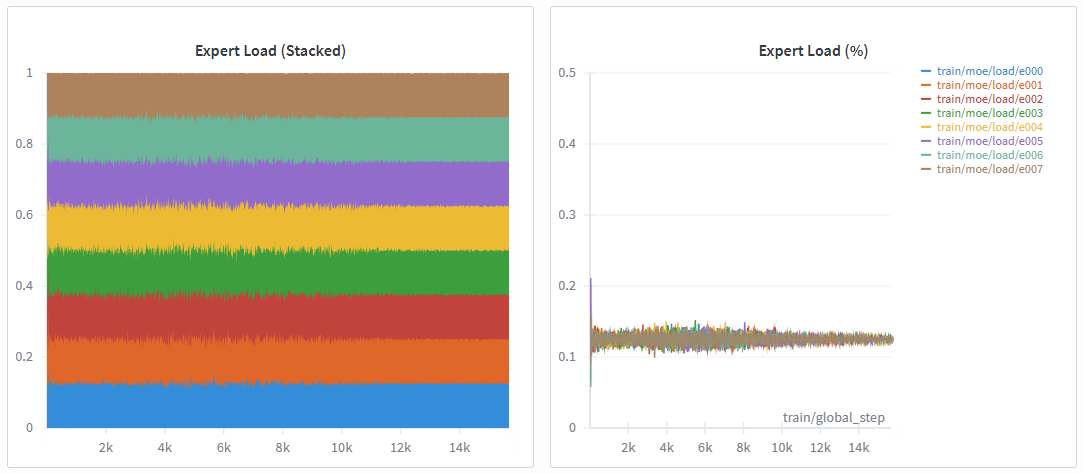
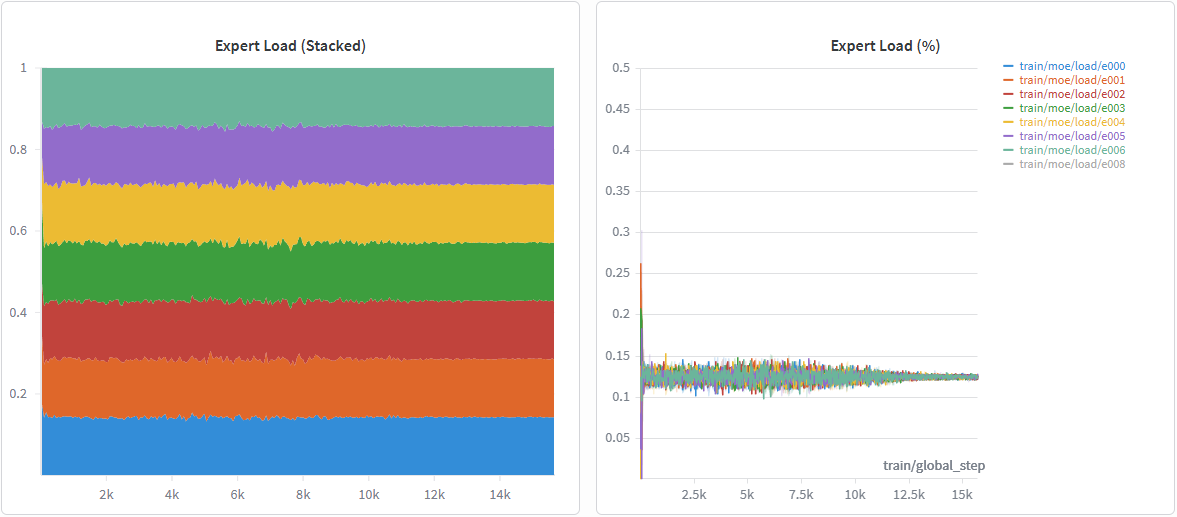
Revise writeup w.r.t. 0716 runs (improved GroupedGLU implementations, 3 calls of F.grouped_mm)

diff --git a/assets/debug_equivalence_grouped_glu_vs_mlp.py b/assets/debug_equivalence_grouped_glu_vs_mlp.py
@@ -1,0 +1,162 @@
+from moelab.moedl.grouped_glu import GroupedGLU
+from moelab.moedl.modeling_moedl import MoedlMLP
+
+from dataclasses import dataclass
+import torch
+
+@dataclass
+class Cfg_GroupedGLU:
+    n_group: int = 1
+    d: int = 768
+    dff: int = 2048
+
+@dataclass
+class Cfg_MoedlMLP:
+    hidden_size: int = 768
+    intermediate_size: int = 2048
+    mlp_bias: bool = False
+    hidden_act: str = "silu"
+
+# Note that the following is generated by sonnet 4.6.
+
+PASS = "\033[32mPASS\033[0m"
+WARN = "\033[33mWARN\033[0m"
+FAIL = "\033[31mFAIL\033[0m"
+
+def _sync_weights(gg: GroupedGLU, mlp: MoedlMLP):
+    """Copy GroupedGLU (n_group=1) weights into a MoedlMLP so they are identical."""
+    with torch.no_grad():
+        mlp.gate.weight.copy_(gg.weight_gate.squeeze(0))
+        mlp.up.weight.copy_(gg.weight_up.squeeze(0))
+        mlp.down.weight.copy_(gg.weight_down.squeeze(0))
+
+
+def _check(label: str, a: torch.Tensor, b: torch.Tensor, atol: float, rtol: float):
+    ok = torch.allclose(a.float(), b.float(), atol=atol, rtol=rtol)
+    max_err = (a.float() - b.float()).abs().max().item()
+    if not ok:
+        status = FAIL
+    elif max_err > 0:
+        status = WARN
+    else:
+        status = PASS
+    print(f"  {status}  {label:<30s}  max_err={max_err:.3e}")
+    return ok
+
+
+def run_comparison(dtype_label: str, model_dtype: torch.dtype, use_autocast: bool):
+    print(f"\n{'='*60}")
+    print(f"  dtype={dtype_label}  autocast={use_autocast}")
+    print(f"{'='*60}")
+
+    device = "cuda"
+    atol = 1e-4 if model_dtype == torch.float32 else 5e-2
+
+    cfg_gg  = Cfg_GroupedGLU()
+    cfg_mlp = Cfg_MoedlMLP()
+
+    # Build both models in fp32, sync weights, then cast.
+    gg  = GroupedGLU(cfg_gg.n_group, cfg_gg.d, cfg_gg.dff, device=device)
+    mlp = MoedlMLP(cfg_mlp).to(device)
+    _sync_weights(gg, mlp)
+
+    gg  = gg.to(model_dtype)
+    mlp = mlp.to(model_dtype)
+
+    n_tokens = 31  # arbitrary
+    x_base = torch.randn(n_tokens, cfg_gg.d, device=device, dtype=model_dtype)
+    offs   = torch.tensor([n_tokens], dtype=torch.int32, device=device)
+
+    x_gg  = x_base.clone().requires_grad_(True)
+    x_mlp = x_base.clone().requires_grad_(True)
+
+    ctx = torch.autocast(device_type="cuda", dtype=model_dtype) if use_autocast else torch.no_grad().__class__()  # dummy ctx
+
+    # ---- forward ----
+    if use_autocast:
+        with torch.autocast(device_type="cuda", dtype=model_dtype):
+            out_gg  = gg(x_gg, offs)
+            out_mlp = mlp(x_mlp)
+    else:
+        out_gg  = gg(x_gg, offs)
+        out_mlp = mlp(x_mlp)
+
+    all_pass = True
+    all_pass &= _check("forward output", out_gg, out_mlp, atol=atol, rtol=atol)
+
+    # ---- backward ----
+    out_gg.sum().backward()
+    out_mlp.sum().backward()
+
+    all_pass &= _check("grad  x (input)",        x_gg.grad,             x_mlp.grad,             atol=atol, rtol=atol)
+    all_pass &= _check("grad  weight_gate / gate", gg.weight_gate.grad.squeeze(0), mlp.gate.weight.grad, atol=atol, rtol=atol)
+    all_pass &= _check("grad  weight_up   / up",   gg.weight_up.grad.squeeze(0),   mlp.up.weight.grad,   atol=atol, rtol=atol)
+    all_pass &= _check("grad  weight_down / down",  gg.weight_down.grad.squeeze(0), mlp.down.weight.grad, atol=atol, rtol=atol)
+
+    return all_pass
+
+
+def run_comparison_compiled(dtype_label: str, model_dtype: torch.dtype, backend: str = None):
+    """Same as run_comparison but both models are wrapped with torch.compile."""
+    backend_label = backend if backend is not None else "inductor"
+    print(f"\n{'='*60}")
+    print(f"  dtype={dtype_label}  torch.compile({backend_label})  autocast=True")
+    print(f"{'='*60}")
+
+    device = "cuda"
+    atol = 5e-2
+
+    cfg_gg  = Cfg_GroupedGLU()
+    cfg_mlp = Cfg_MoedlMLP()
+
+    # Build both models in fp32, sync weights, then cast.
+    gg  = GroupedGLU(cfg_gg.n_group, cfg_gg.d, cfg_gg.dff, device=device)
+    mlp = MoedlMLP(cfg_mlp).to(device)
+    _sync_weights(gg, mlp)
+
+    gg  = gg.to(model_dtype)
+    mlp = mlp.to(model_dtype)
+
+    compile_kwargs = {"backend": backend} if backend is not None else {}
+    gg_c  = torch.compile(gg,  **compile_kwargs)
+    mlp_c = torch.compile(mlp, **compile_kwargs)
+
+    n_tokens = 31
+    x_base = torch.randn(n_tokens, cfg_gg.d, device=device, dtype=model_dtype)
+    offs   = torch.tensor([n_tokens], dtype=torch.int32, device=device)
+
+    x_gg  = x_base.clone().requires_grad_(True)
+    x_mlp = x_base.clone().requires_grad_(True)
+
+    # ---- forward ----
+    with torch.autocast(device_type="cuda", dtype=model_dtype):
+        out_gg  = gg_c(x_gg, offs)
+        out_mlp = mlp_c(x_mlp)
+
+    all_pass = True
+    all_pass &= _check("forward output", out_gg, out_mlp, atol=atol, rtol=atol)
+
+    # ---- backward ----
+    out_gg.sum().backward()
+    out_mlp.sum().backward()
+
+    all_pass &= _check("grad  x (input)",          x_gg.grad,                      x_mlp.grad,           atol=atol, rtol=atol)
+    all_pass &= _check("grad  weight_gate / gate",  gg.weight_gate.grad.squeeze(0), mlp.gate.weight.grad, atol=atol, rtol=atol)
+    all_pass &= _check("grad  weight_up   / up",    gg.weight_up.grad.squeeze(0),   mlp.up.weight.grad,   atol=atol, rtol=atol)
+    all_pass &= _check("grad  weight_down / down",  gg.weight_down.grad.squeeze(0), mlp.down.weight.grad, atol=atol, rtol=atol)
+
+    return all_pass
+
+
+if __name__ == "__main__":
+    if not torch.cuda.is_available():
+        raise RuntimeError("CUDA is required for this comparison.")
+
+    results = {}
+    results["fp32"]                  = run_comparison("fp32",  torch.float32,  use_autocast=False)
+    results["bf16"]                  = run_comparison("bf16",  torch.bfloat16, use_autocast=True)
+    results["bf16_compile"]          = run_comparison_compiled("bf16", torch.bfloat16)
+    results["bf16_compile_aot_eager"] = run_comparison_compiled("bf16", torch.bfloat16, backend="aot_eager")
+
+
+

diff --git a/readme.md b/readme.md
@@ -50,7 +50,7 @@ While some features are still work in progress and certain ablations require lar
     * **More customization**: use [`moelab_main.py`][main] like we use standard HF script. Do `python moelab_main.py --help` to see options.
     * **Find LR**: Appending `--sweep_lr <list of comma-limited lr>` to `moelab_main.py` will turn it into learning rate sweep for small number of steps, which can be configured with `--sweep_lr_steps <num_steps>`. For experiments in the [`Makefile`][mkfile], just append sweep_lr=1 to the make command. e.g. `make c1_moedl_e8_k1 sweep_lr=1`. A report will be generated in the output folder and metrics of the sweep are also logged to wandb by default.
 
-* All runs are shared via [W&B project][wbproj] ([w/ grouped_mm][wbproj2]), with [CSV export][csv] for quick result lookup.
+* All runs are shared via [W&B project][wbproj-0716], [spreadsheet][result-xlsx] for quick result lookup.
 
 * Qualitative Eval per [TinyStories][ts-paper].
     ```bash
@@ -105,18 +105,13 @@ As of Jan 2026, most HuggingFace-based MoE implementations (including our initia
 
 Grouped GEMM addresses this by tiling the output of all experts such that these output tiles are scheduled/executed independently and in parallel (with their corresponding inputs). This enables concurrent execution across SMs instead of waiting for one expert to finish before launching the next. Historically this required [custom kernels][triton_grouped_mm]. In PyTorch 2.10 released Jan 2026, [`torch.nn.functional.grouped_mm`][torch210_grouped_mm] provides an official primitive.
 
-To enable training, we implemented an autograded `GroupedMMFunc` and `GroupedGLU` module to wrap around `grouped_mm`. See [codes][grouped_glu_py]. While the integration is straightforward, a few practical notes are worth highlighting:
+To enable training, we implemented an autograded `GroupedMMFunc` and `GroupedGLU` module to wrap around `grouped_mm`. While the integration is straightforward, the grouped weights must use the layout of `(group size, oc, ic)` so that the 3 grouped gemms in forward and backward map directly to `grouped_mm`. See [codes][grouped_glu_py].
 
-1. Partial coverage of expert GEMMs. Synonymous to linear layer, experts requires [3 grouped GEMMs][three-gemms] `Y, grad_x, grad_w`. The current `grouped_mm` API assumes a fixed contraction (inner) dimension across groups. This allows us to implement the `y` and `grad_x` GEMMs via appropriate transpose, but not `grad_y` because the contraction dim is the token dim, and token counts per expert vary dynamically. As a result, `grad_y` are still computed per expert in a loop. In essense, we accelerate 2/3 expert GEMMs.
-
-2. The execution pattern of `GroupedGLU`: Using `grouped_mm`, gate, up and down projections are grouped and dispatched in parallel across all activated experts. This replaces the vanilla expert-by-expert execution.
-
-3. Reduced precision: `grouped_mm` returns outputs in the dtype of input A. Under our BF16 training regime, per-expert outputs are BF16. This slightly affects the weighted aggregation over top-k experts due to rounding. Across all experiments, final eval loss degrades by ~0.85% on average, while ablation trends and relative comparisons remain stable.
 
 **Acceleration Results on 1xRTX Pro 6000**: Across all experiments, `GroupedGLU` yields:
-* 23% average training (incl. eval) speedup, up to 46% speedup in high-expert settings.
+* 31% average training (incl. eval) speedup, up to 60% speedup in high-expert settings.
 
-The benefit is strongly correlated to expert count. The more experts you have, the more wasteful sequential execution becomes, so grouped execution helps more.
+The benefit is strongly correlated to expert count. The more experts you have, the more wasteful sequential execution becomes, so grouped execution helps more. *Note: `torch.compile (Inductor backend)` introduces small numerical differences in the `GroupedGLU` backward, resulting in a modest eval-loss regression (~0.98% on average). Run this [script][dbg-groupedglu-mlp] to understand the rootcause.*
 
 ![](assets/grouped_vs_looped_mm.png)
 
@@ -172,17 +167,17 @@ Setup: We ablate on `Moedl` with 8 experts (E=8) and 1 active expert per token (
 
 | make [exp. id]               | Eval Loss |
 |---------------------------   |:---------:|
-| `a0_moedl_no_lb`             | 1.127     |
-| `a1_moedl_lb_penalty`        | 1.137     |
-| `a2_moedl_lb_biasing`        | 1.130     |
+| `a0_moedl_no_lb`             | 1.110     |
+| `a1_moedl_lb_penalty`        | 1.133     |
+| `a2_moedl_lb_biasing`        | 1.143     |
 
-At first glance, all three strategies converge to similar final eval loss, with the best result achieved without load balancing, followed closely by router biasing, and finally the imbalance penalty. While the final loss differences are small, the load-balancing dynamics differ. To illustrate this, we examine expert load over time. The following plots, logged in [W&B][wbproj], show expert load averaged across layers.
+At first glance, all three strategies converge to similar final eval loss, with the best result achieved without load balancing, followed closely by router biasing, and finally the imbalance penalty. While the final loss differences are small, the load-balancing dynamics differ. To illustrate this, we examine expert load over time. The following plots, logged in [W&B][wbproj-0716], show expert load averaged across layers.
 
-**Without load balancing**, expert imbalance is immediately apparent. A small subset of experts dominates the routing, as reflected by the disproportionate heights in the stacked plot and the uneven distributions in the % overlay view. Observe how `e002` and `e006` are less assigned than the rest throughout training.
+**Without load balancing**, expert imbalance is immediately apparent. A small subset of experts dominates the routing, as reflected by the disproportionate heights in the stacked plot and the uneven distributions in the % overlay view. Observe how `e001` and `e005` are less assigned than the rest throughout training.
 
 <img src="assets/a0_no_lb_expert_load.png" width="600" style="height:auto;">
 
-**Imbalance penalty** improves load distribution gradually over training. All series fluctuate around balance point 1/E=0.125 throughout. Between steps 2k and 10k, the % plot exhibit noticeably higher variance, indicating noisy and unstable routing before the auxiliary loss sufficiently regularizes expert utilization.
+**Imbalance penalty** improves load distribution gradually over training. All series fluctuate around balance point 1/E=0.125 throughout. 10k step and prior, the % plot exhibit noticeably higher variance, indicating noisy and unstable routing before the auxiliary loss sufficiently regularizes expert utilization.
 
 <img src="assets/a1_lb_penalty_expert_load.png" width="600" style="height:auto;">
 
@@ -235,10 +230,10 @@ The effectiveness of higher resolution can be reasoned about combinatorially. Fo
 
 | make [exp. id]        |Expert Dff | Resolution (E:K) | Combinations ($_EC_k$) | Eval Loss |
 |-----------------------|:---------:|:----------------:| ----------------------:|:---------:|
-| `c1_moedl_e8_k1`      | 2048      | 8:1              | 8                      | 1.1296    |
-| `c2_moedl_e16_k2`     | 1024      | 16:2             | 120                    | 1.0658    |
-| `c3_moedl_e32_k4`     | 512       | 32:4             | 35,960                 | **1.0581**|
-| `c4_moedl_e64_k8`     | 256       | 64:8             | 4,426,165,368          | 1.0584    |
+| `c1_moedl_e8_k1`      | 2048      | 8:1              | 8                      | 1.1411    |
+| `c2_moedl_e16_k2`     | 1024      | 16:2             | 120                    | 1.0793    |
+| `c3_moedl_e32_k4`     | 512       | 32:4             | 35,960                 | 1.0744    |
+| `c4_moedl_e64_k8`     | 256       | 64:8             | 4,426,165,368          | **1.0709**|
 
 We ablate MoE models at a fixed sparsity ratio of 12.5% while increasing resolution: E:K = 8:1, 16:2, 32:4, and 64:8. Total model parameters are kept approximately constant at 400M by adjusting the expert hidden size. Activated param count stays constant as well. 
 
@@ -251,18 +246,18 @@ In addition to finer-grained experts, [DeepSeekMoE][ds-moe] also advocates the u
 
 While this intuition is appealing, [OLMoE (4.1.3)][olmoe] highlights a potential confound to the combinatorial argument. Shared experts are essentially fixed routing paths and contribute no additional combinations. At iso-active-expert settings, introducing shared experts effectively reduces the number of unique combinations, which may be counter-productive for model expressivity (see Table below).
 
-Empirical results in the literature are mixed. The proposer [DeepSeekMoE (Fig.3,6)][ds-moe] reports benefits from shared experts whereas [OLMoE (4.1.3)][olmoe] observes limited or negative impact. [NVIDIA's ablations][nv-upcycle] show similar convergence behavior with and without shared experts, though in the specific context of upcycling a Nemotron-4 dense model into an MoE. Notably, most prior studies explore shared experts in a binary on/off setting.
+Empirical results in the literature are mixed. The proposer [DeepSeekMoE (Fig.3,6)][ds-moe] reports benefits from shared experts whereas [OLMoE (4.1.3)][olmoe] observes limited or negative impact. [NVIDIA's ablations][nv-upcycle] show similar convergence behavior with and without shared experts, though it was a specific context of upcycling a Nemotron-4 dense model into an MoE. Notably, most prior studies explore shared experts in a binary on/off setting due to computational demands for large model ablations.
 
 Given the lightweight nature of our setup, we are able to explore this design axis more thoroughly by varying the number of shared experts while holding number of active experts and total parameters constant. Our baseline is E=32, K=4, ~400M total parameters with ~135M actived. We vary the number of shared experts (ES) from 0 to 3, adjusting the K and E to maintain a total of 4 active experts.
 
-| make [exp. id]             | Shared (ES) | E  | K | Active Experts | Combinations ($_EC_k$) | Eval Loss |
-|----------------------------|:-----------:|---:|--:|:--------------:|-----------------------:|:---------:|
-| `d1_moedl_s0_k4_e32-0119`  | 0           | 32 | 4 | 4              | 35,960                 | 1.0581    |
-| `d2_moedl_s1_k3_e31-0119`  | 1           | 31 | 3 | 4              | 4,495                  | **1.0573**|
-| `d3_moedl_s2_k2_e30-0119`  | 2           | 30 | 2 | 4              | 435                    | 1.0600    |
-| `d4_moedl_s3_k1_e29-0119`  | 3           | 29 | 1 | 4              | 29                     | 1.1014    |
+| make [exp. id]        | Shared (ES) | E  | K | Active Experts | Combinations ($_EC_k$) | Eval Loss |
+|-----------------------|:-----------:|---:|--:|:--------------:|-----------------------:|:---------:|
+| `d1_moedl_s0_k4_e32`  | 0           | 32 | 4 | 4              | 35,960                 | **1.0727**|
+| `d2_moedl_s1_k3_e31`  | 1           | 31 | 3 | 4              | 4,495                  | 1.0769    |
+| `d3_moedl_s2_k2_e30`  | 2           | 30 | 2 | 4              | 435                    | 1.0741    |
+| `d4_moedl_s3_k1_e29`  | 3           | 29 | 1 | 4              | 29                     | 1.1096    |
 
-**Results:** The overall trend suggests that more shared experts lead to worse performance aligning to the combinatorial argument. Yet the best result is achieved with 1 shared expert (ES=1) by just tiny margin (0.0008) over no shared experts (ES=0). This small gain may be attributed to dataset characteristics such as limited scale or diversity in TinyStories, leading to under-training of non-shared experts.
+**Results:** The best result is achieved with no shared experts (ES=0). The overall trend suggests that more shared experts lead to worse performance aligning to the combinatorial argument. 
 
 **Personal take:** In my view, the benefit of shared experts, if any, appears marginal. Rather than allocating capacity to shared experts, I would prefer to expand the main trunk by widening layers or adding depth to **preserve** symmetry within MoE blocks. Conceptually, these approaches serve a similar purpose, applying a common transformation to every token.
 
@@ -279,17 +274,22 @@ Concretely, the **capacity factor (CF)** controls this limit:
 
 In plain terms, CF = 1.0 restricts each expert to the average expected token load under perfectly balanced routing. Increasing CF allows experts to handle more tokens beyond this average. For example, CF = 2.0 permits each expert to process up to 2x the average load, reducing the likelihood of token dropping during imbalance routing.
 
-Following the vein of [MegaBlocks][megablocks], we ablate the effect of token dropping on Moedl with resolution E:K = 8:1 by sweeping the capacity factor (CF) from 1.0 to 2.5 in increments of 0.5. Note that our setup differs in load balancing: we use router biasing, whereas MegaBlocks uses an auxiliary load-balancing objective. Run `make e1 .. e4` for the CF sweeps, and refer `a2` / `b3` for the dropless setting (CF disabled).
+Following the vein of [MegaBlocks][megablocks], we ablate the effect of token dropping on Moedl with resolution E:K = 8:1 by sweeping the capacity factor (CF) from 1.0 to 2.5 in increments of 0.5. Note that our setup differs in load balancing: we use router biasing, whereas MegaBlocks uses an auxiliary load-balancing objective. Run `make e1 .. e4` for the CF sweeps.
 
-<img src="assets/cf_ablations.png" width="400" style="height:auto;">
+| make [exp. id]   | Eval Loss  |  CF | Final-Step Tokens Dropped |
+|:-----------------|-----------:|----:|--------------------------:|
+| e1_moedl_cf_1.0  |     1.1384 | 1.0 |                      7542 |
+| e2_moedl_cf_1.5  |     1.1362 | 1.5 |                         0 |
+| e3_moedl_cf_2.0  | **1.1337** | 2.0 |                         0 |
+| e4_moedl_cf_2.5  |     1.1349 | 2.5 |                         0 |
 
 <img src="assets/cf_drop_token_count_over_time.png" width="400" style="height:auto;">
 
-**Dropping tokens is detrimental.** The dropless setting (CF disabled) outperforms all CF configurations. Among the CF runs, the highest CF (2.5) which minimizes token dropping performs best, consistent with the idea that fewer dropped tokens leads to better learning.
+**Dropping tokens is detrimental.**  Consistent with the literature, fewer dropped tokens leads to better learning. 
 
-To make this concrete, we enclose the total number of dropped tokens over training. With CF=1.0, the model continues to drop tokens throughout training, ending at ~6K+ dropped tokens aggregated across layers (roughly ~1% of all tokens). In contrast, CF=1.5/2.0/2.5 quickly converge to near-zero dropped tokens. This also suggests router biasing already routes tokens effectively, experts do not hit extra expert capacity (higher CF).
+To make this concrete, we enclose the total number of dropped tokens over training. With CF=1.0, the model continues to drop tokens throughout training, ending at ~7K+ total dropped tokens across layers (roughly ~1% of all tokens). In contrast, CF=1.5/2.0/2.5 quickly converge to near-zero dropped tokens. This suggests that router biasing distributes tokens effectively enough that the additional expert capacity at higher CF values is rarely needed. With CF=1.0, however, even small residual load imbalances can overflow the tightly constrained expert capacity.
 
-A little nuance though, CF=1.5 and CF=2.0 converge slightly worse than CF=1.0. We suspect this is variance, or that early-stage token dropping can have lasting impact on model learning. Regardless, the trend is clear: **token dropping is not beneficial.** Also crucially, router biasing effectively mitigates expert overload, making capacity-based token dropping unnecessary. *So, don't drop tokens!*
+A little nuance though, CF=1.5 and CF=2.5 converge slightly worse than CF=2.0. We suspect this is variance, or that early-stage token dropping can have lasting impact on model learning. Regardless, the trend is clear: **token dropping is not beneficial.** Also crucially, router biasing effectively mitigates expert overload, making capacity-based token dropping unnecessary. *So, don't drop tokens!*
 
 ##
 ### Conclusion
@@ -298,8 +298,7 @@ Our ablations suggest: Use router biasing for load balancing. Prefer MoE with hi
 
 #### Future Plans
 
-1. Grouped GEMM kernel integration for more efficient training and larger-scale ablations. (done Autograded Grouped Gemm around Mid Feb 2026.)
-2. Revisit scaling number of experts ablations to understand the anomaly we observed.
+1. Revisit scaling number of experts ablations to understand the anomaly we observed.
 
 ```
 @misc{chua_moe_lab_2026,
@@ -318,12 +317,12 @@ Our ablations suggest: Use router biasing for load balancing. Prefer MoE with hi
 [MoedlTrainer]: ./src/moelab/moedl/trainer.py
 [main]: ./moelab_main.py
 [large-hp]: ./assets/compare_lb_strategy_heatmaps.gif
-[csv]: ./assets/results.csv
+[result-xlsx]: ./assets/moe-lab-results.xlsx
 [hf-moedl]: https://huggingface.co/vuiseng9/c3_moedl_e32_k4-0119
 [hf-moedl-dense]: https://huggingface.co/vuiseng9/01_moedl_dense-0119
 
-[wbproj]: https://wandb.ai/vchua/moe-lab-2026-0119
-[wbproj2]: https://wandb.ai/vchua/moe-lab-2026-0213
+[wbproj-0119]: https://wandb.ai/vchua/moe-lab-2026-0119
+[wbproj-0716]: https://wandb.ai/vchua/moe-lab-2026-0716
 [ts-ds]: https://huggingface.co/roneneldan/TinyStories-33M
 
 [megablocks]: http://arxiv.org/abs/2211.15841
@@ -345,3 +344,4 @@ Our ablations suggest: Use router biasing for load balancing. Prefer MoE with hi
 [triton_grouped_mm]: https://pytorch.org/blog/accelerating-moes-with-a-triton-persistent-cache-aware-grouped-gemm-kernel/
 [grouped_glu_py]: ./src/moelab/moedl/grouped_glu.py
 [three-gemms]: https://github.com/vuiseng9/fp4-training?tab=readme-ov-file#the-three-gemms-of-training
+[dbg-groupedglu-mlp]: ./assets/debug_equivalence_grouped_glu_vs_mlp.py
